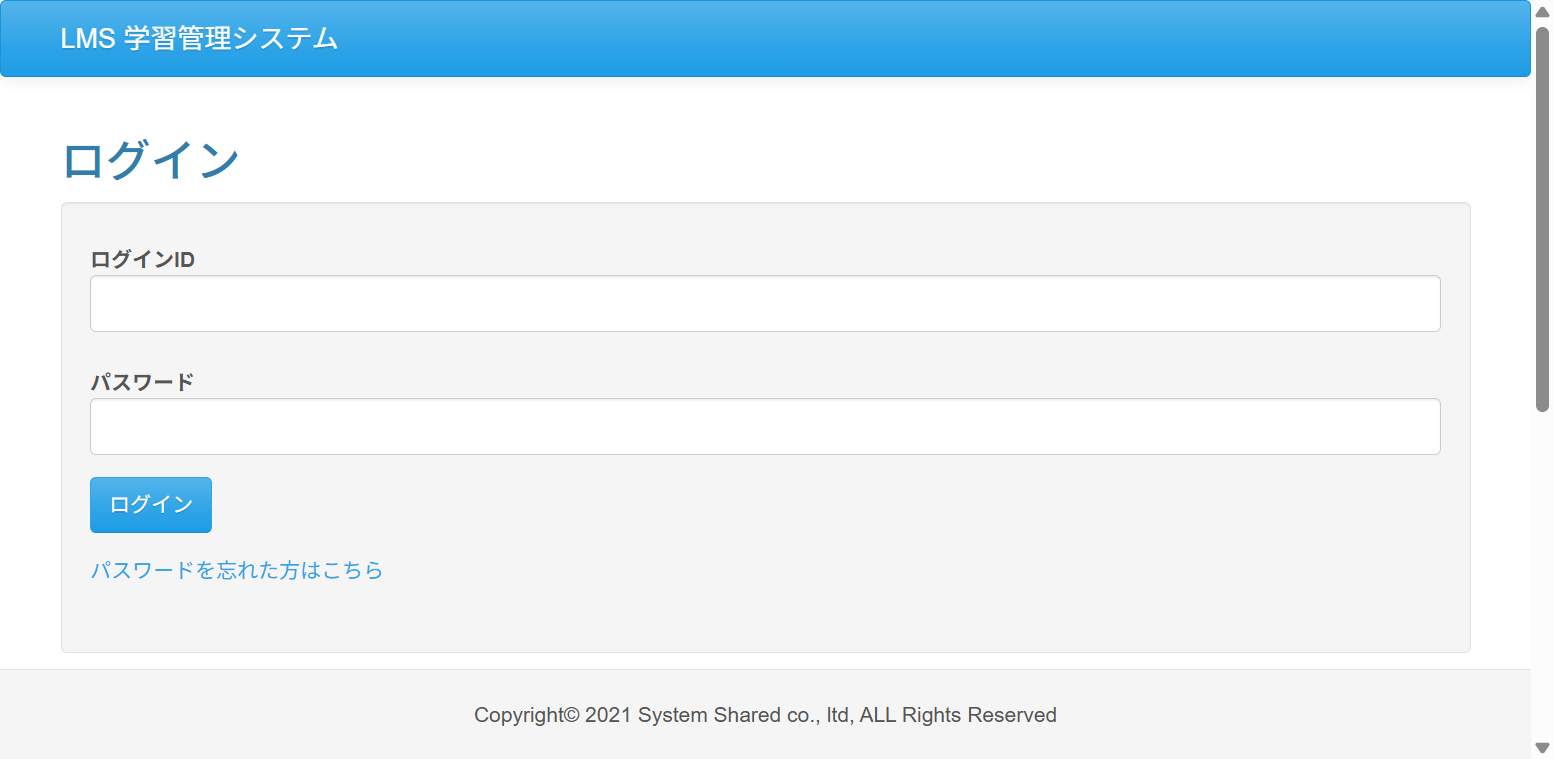
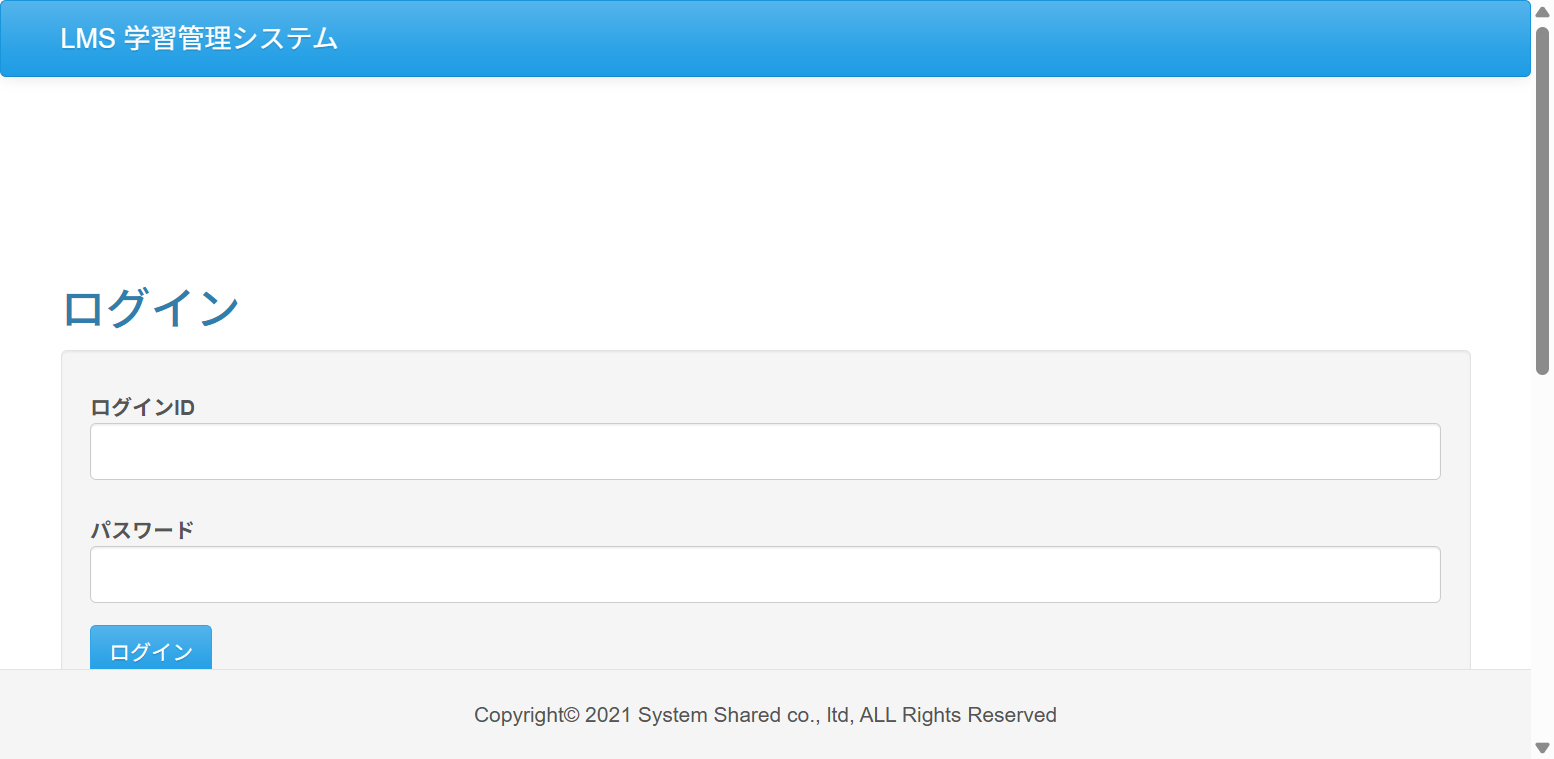
add:Case01.java ログイン画面への遷移テストコード追加(修正2)

diff --git a/test_code_creation_ToshikiMaeno/src/test/java/jp/co/sss/lms/ct/util/WebDriverUtils.java b/test_code_creation_ToshikiMaeno/src/test/java/jp/co/sss/lms/ct/util/WebDriverUtils.java
@@ -71,7 +71,8 @@ public class WebDriverUtils {
 	 * 指定ピクセル分だけスクロール
 	 * @param pixel
 	 */
-	public static void scrollBy(String pixel) {
+	public static void scrollBy(int pixel) {
+		//((JavascriptExecutor) webDriver).executeScript("window.scrollBy(0," + pixel + ");");
 		((JavascriptExecutor) webDriver).executeScript("window.scrollBy(0," + pixel + ");");
 	}
 
@@ -79,7 +80,7 @@ public class WebDriverUtils {
 	 * 指定位置までスクロール
 	 * @param pixel
 	 */
-	public static void scrollTo(String pixel) {
+	public static void scrollTo(int pixel) {
 		((JavascriptExecutor) webDriver).executeScript("window.scrollTo(0," + pixel + ");");
 	}
 
@@ -90,23 +91,8 @@ public class WebDriverUtils {
 	public static void getEvidence(Object instance) {
 		File tempFile = ((TakesScreenshot) webDriver).getScreenshotAs(OutputType.FILE);
 		try {
-			//String className = instance.getClass().getEnclosingClass().getSimpleName();
-			//String className = "あ";
-			//Class<? extends Case01> className = (Class<? extends Case01>) instance.getClass();
 			String className = instance.getClass().getSimpleName();
-			//String className = Thread.currentThread().getStackTrace()[2].getClassName();
-
-			//String methodName = instance.getClass().getEnclosingMethod().getName();
-			//String methodName = instance.getClass().getName();
-			//Method methodName = instance.getClass().getEnclosingMethod();
-			//Method[] methodName = instance.getClass().getMethods();
-			//Method[] methodName = instance.getClass().getMethods();
-			//String methodName = Thread.currentThread().getStackTrace()[1].getMethodName();
-			//StackTraceElement[] ste = new Throwable().getStackTrace();
-			//int methodName = ste.length;
 			String methodName = Thread.currentThread().getStackTrace()[2].getMethodName();
-
-			//String methodName = "お";
 			Files.move(tempFile, new File("evidence\\" + className + "_" + methodName + ".png"));
 		} catch (IOException e) {
 			e.printStackTrace();
@@ -121,8 +107,8 @@ public class WebDriverUtils {
 	public static void getEvidence(Object instance, String suffix) {
 		File tempFile = ((TakesScreenshot) webDriver).getScreenshotAs(OutputType.FILE);
 		try {
-			String className = instance.getClass().getEnclosingClass().getSimpleName();
-			String methodName = instance.getClass().getEnclosingMethod().getName();
+			String className = instance.getClass().getSimpleName();
+			String methodName = Thread.currentThread().getStackTrace()[2].getMethodName();
 			Files.move(tempFile, new File("evidence\\" + className + "_" + methodName + "_" + suffix + ".png"));
 		} catch (IOException e) {
 			e.printStackTrace();

diff --git a/test_code_creation_ToshikiMaeno/src/test/java/jp/co/sss/lms/ut/f01_login1/Case01.java b/test_code_creation_ToshikiMaeno/src/test/java/jp/co/sss/lms/ut/f01_login1/Case01.java
@@ -109,20 +109,13 @@ public class Case01 {
 	public void testCase1_1() {
 
 		// 指定のURLの画面を開く
-		//WebDriverUtils.goTo("http://www.google.co.jp");
 		WebDriverUtils.goTo("http://localhost:8080/lms/");
 
+		WebDriverUtils.scrollTo(0);
+
 		//自分自身をインスタンス化して渡す
-		//Case01 instance = new Case01();
 		Case01 instance = new Case01();
 
-		//String className = instance.getClass().getEnclosingClass().getSimpleName();
-		//Class<? extends Case01> className = instance.getClass();
-
-		//String methodName = instance.getClass().getEnclosingMethod().getName();
-		//String methodName = instance.getClass().getName();
-
-		//WebDriverUtils.getEvidence(WebDriverUtils.webDriver);
 		WebDriverUtils.getEvidence(instance);
 
 		// セッション情報を事前に設定する場合、MockHttpSessionを使用する
